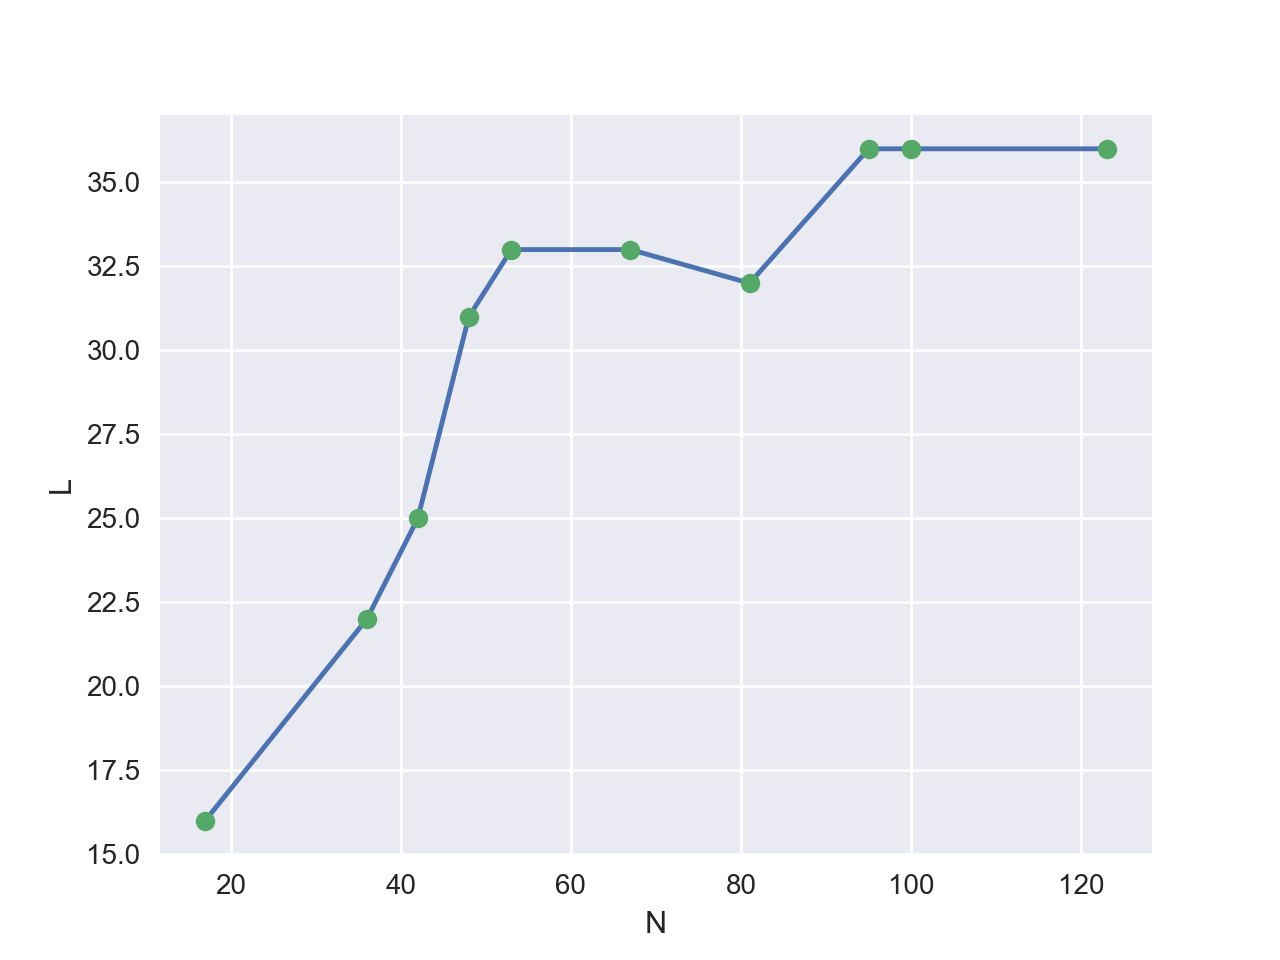
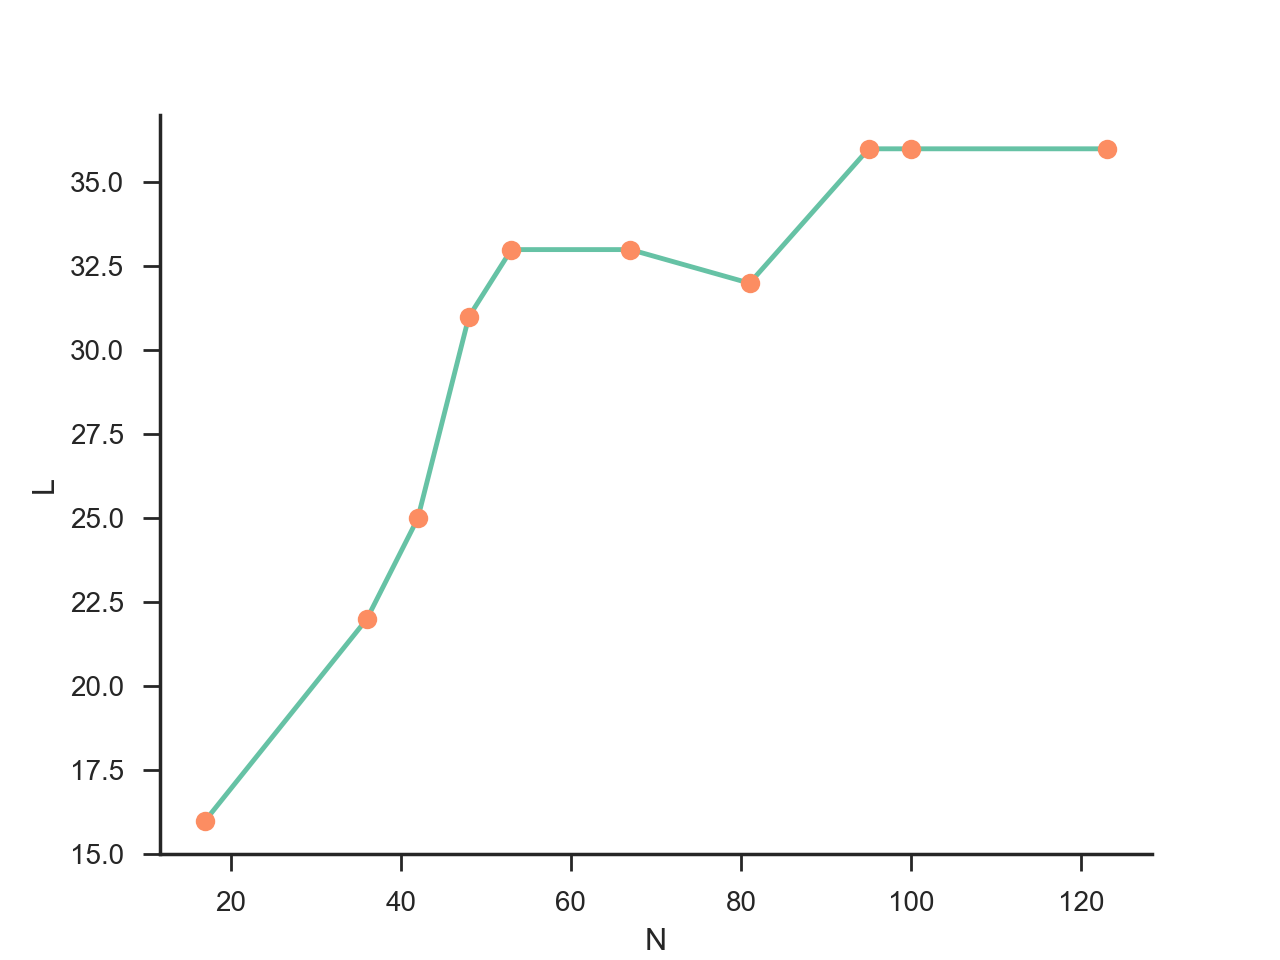
加入了BC与规模并改变了style

diff --git a/code/chart/size_diameter.py b/code/chart/size_diameter.py
@@ -8,27 +8,84 @@ import seaborn as sns
 base_dir = os.path.join(os.path.dirname(__file__), '../../data/')
 
 
-def size_diameter_data():
-    s = list()
-    with open(os.path.join(base_dir, "分阶段数据/规模.csv"), 'r', encoding='utf-8') as f:
-        r = csv.DictReader(f)
-        for row in r:
-            s.append(int(row['size']))
+def diameter_data():
     diameter = list()
     with open(os.path.join(base_dir, "分阶段数据/网络直径.csv"), 'r', encoding='utf-8') as f:
         r = csv.DictReader(f)
         for row in r:
             diameter.append(int(row['diameter']))
-    return s, diameter
+    return diameter
+
+
+def size_data():
+    s = list()
+    with open(os.path.join(base_dir, "分阶段数据/规模.csv"), 'r', encoding='utf-8') as f:
+        r = csv.DictReader(f)
+        for row in r:
+            s.append(int(row['size']))
+    return s
+
+
+def bc_data():
+    result = list()
+    with open(os.path.join(base_dir, "分阶段数据/平均BC.csv"), 'r', encoding='utf-8') as f:
+        r = csv.DictReader(f)
+        for row in r:
+            result.append(float(row['average_bc']))
+    return result
+
+
+def delta_bc():
+    bc = bc_data()
+    delta = list()
+    last = bc[0]
+    for i in range(1, len(bc)):
+        delta.append(bc[i] - last)
+        last = bc[i]
+    return delta
+
+
+def draw_size_diameter():
+    sns.set(style='ticks', palette='Set2')
+    diameter = diameter_data()
+    size = size_data()
+    plt.figure(dpi=200)
+    x1, y1 = zip(*sorted(zip(size, diameter)))
+    plt.plot(x1, y1)
+    plt.plot(x1, y1, 'o')
+    plt.ylabel('L')
+    plt.xlabel('N')
+
+    ax = plt.gca()
+    ax.spines['top'].set_color('none')
+    ax.spines['right'].set_color('none')
+
+    plt.show()
+
+
+def draw_size_bc():
+    sns.set(style='ticks', palette='Set2')
+    bc = bc_data()
+    size = size_data()
+    plt.figure(dpi=200)
+    x1, y1 = zip(*sorted(zip(size, bc)))
+    plt.plot(x1, y1)
+    plt.plot(x1, y1, 'o')
+    delta = delta_bc()
+    size.remove(size[0])
+    size.remove(size[len(size) - 1])
+    x2, y2 = zip(*sorted(zip(size, delta)))
+    plt.plot(x2, y2, '^')
+    plt.ylabel('BC')
+    plt.xlabel('N')
+
+    ax = plt.gca()
+    ax.spines['bottom'].set_position(('data', 0))
+    ax.spines['top'].set_color('none')
+    ax.spines['right'].set_color('none')
+
+    plt.show()
 
 
 if __name__ == "__main__":
-    sns.set()
-    size, diameter = size_diameter_data()
-    plt.figure(dpi=200)
-    x, y = zip(*sorted(zip(size, diameter)))
-    plt.plot(x, y)
-    plt.plot(x, y, 'o')
-    plt.ylabel('L')
-    plt.xlabel('N')
-    plt.show()
+    draw_size_diameter()
